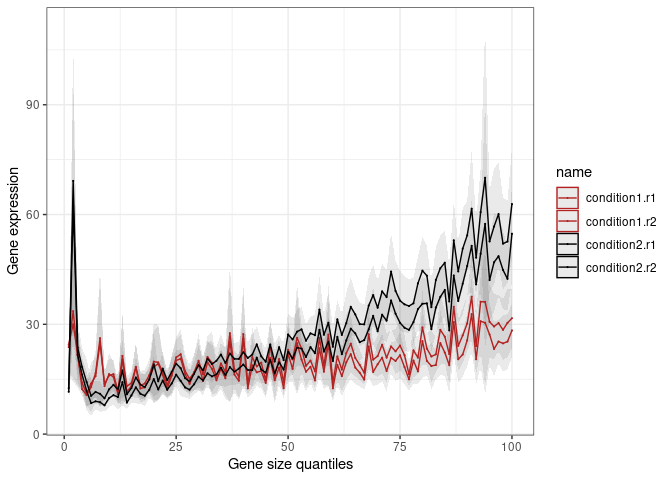
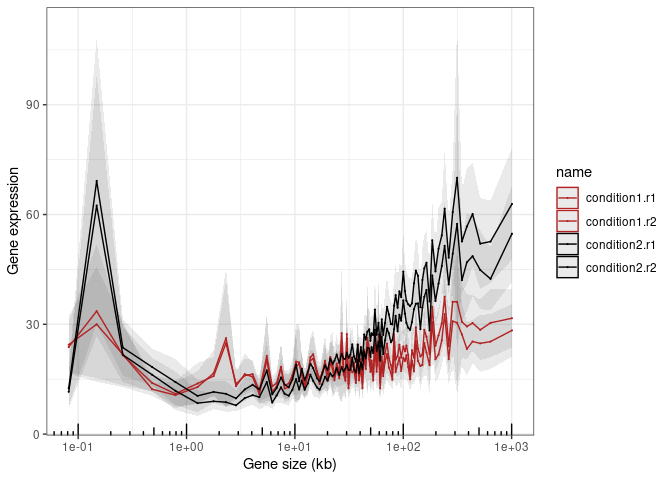
specify alpha

diff --git a/README.md b/README.md
@@ -153,7 +153,7 @@ head(binomial.df)
 #### sizeR tile plot
 
 ``` r
-sizeR_plot(binomial.df, type = "tile")
+sizeR_plot(binomial.df, type = "tile", quantiles = FALSE)
 ```
 
 <img src="man/figures/README-unnamed-chunk-4-1.png" width="100%" />
@@ -242,7 +242,7 @@ sizeR_plot(binomial.df, by_sample = T, type = "bar")
 #### Plot sizeR line plot
 
 ``` r
-sizeR_plot(data.df, type = "line") +
+sizeR_plot(data.df, type = "line", quantiles = FALSE) +
   scale_color_manual(values = c("condition1.r1" = "firebrick", "condition1.r2" = "firebrick", "condition2.r1" = "black", "condition2.r2" = "black"))
 ```
 
